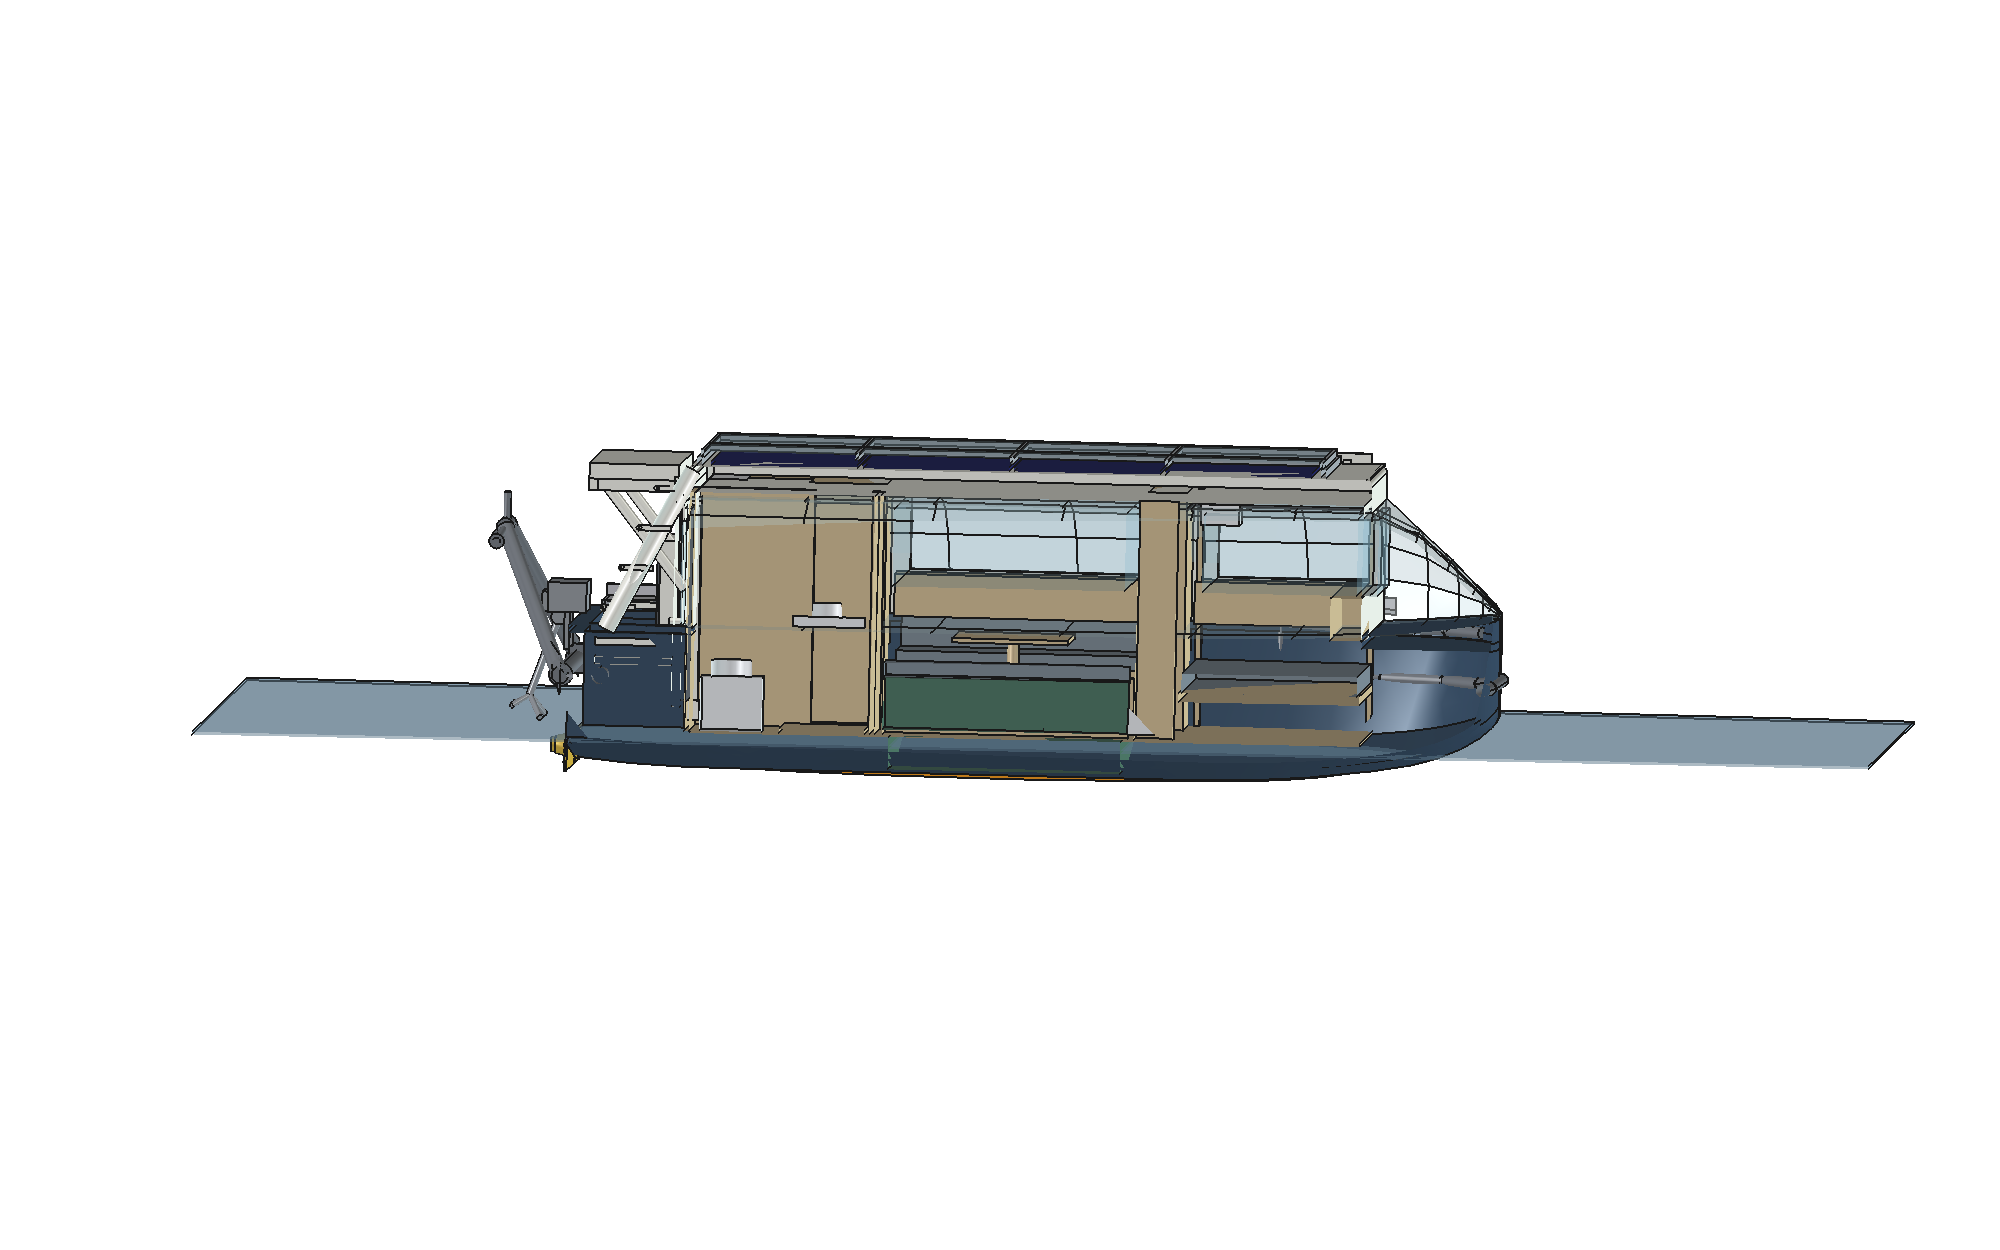
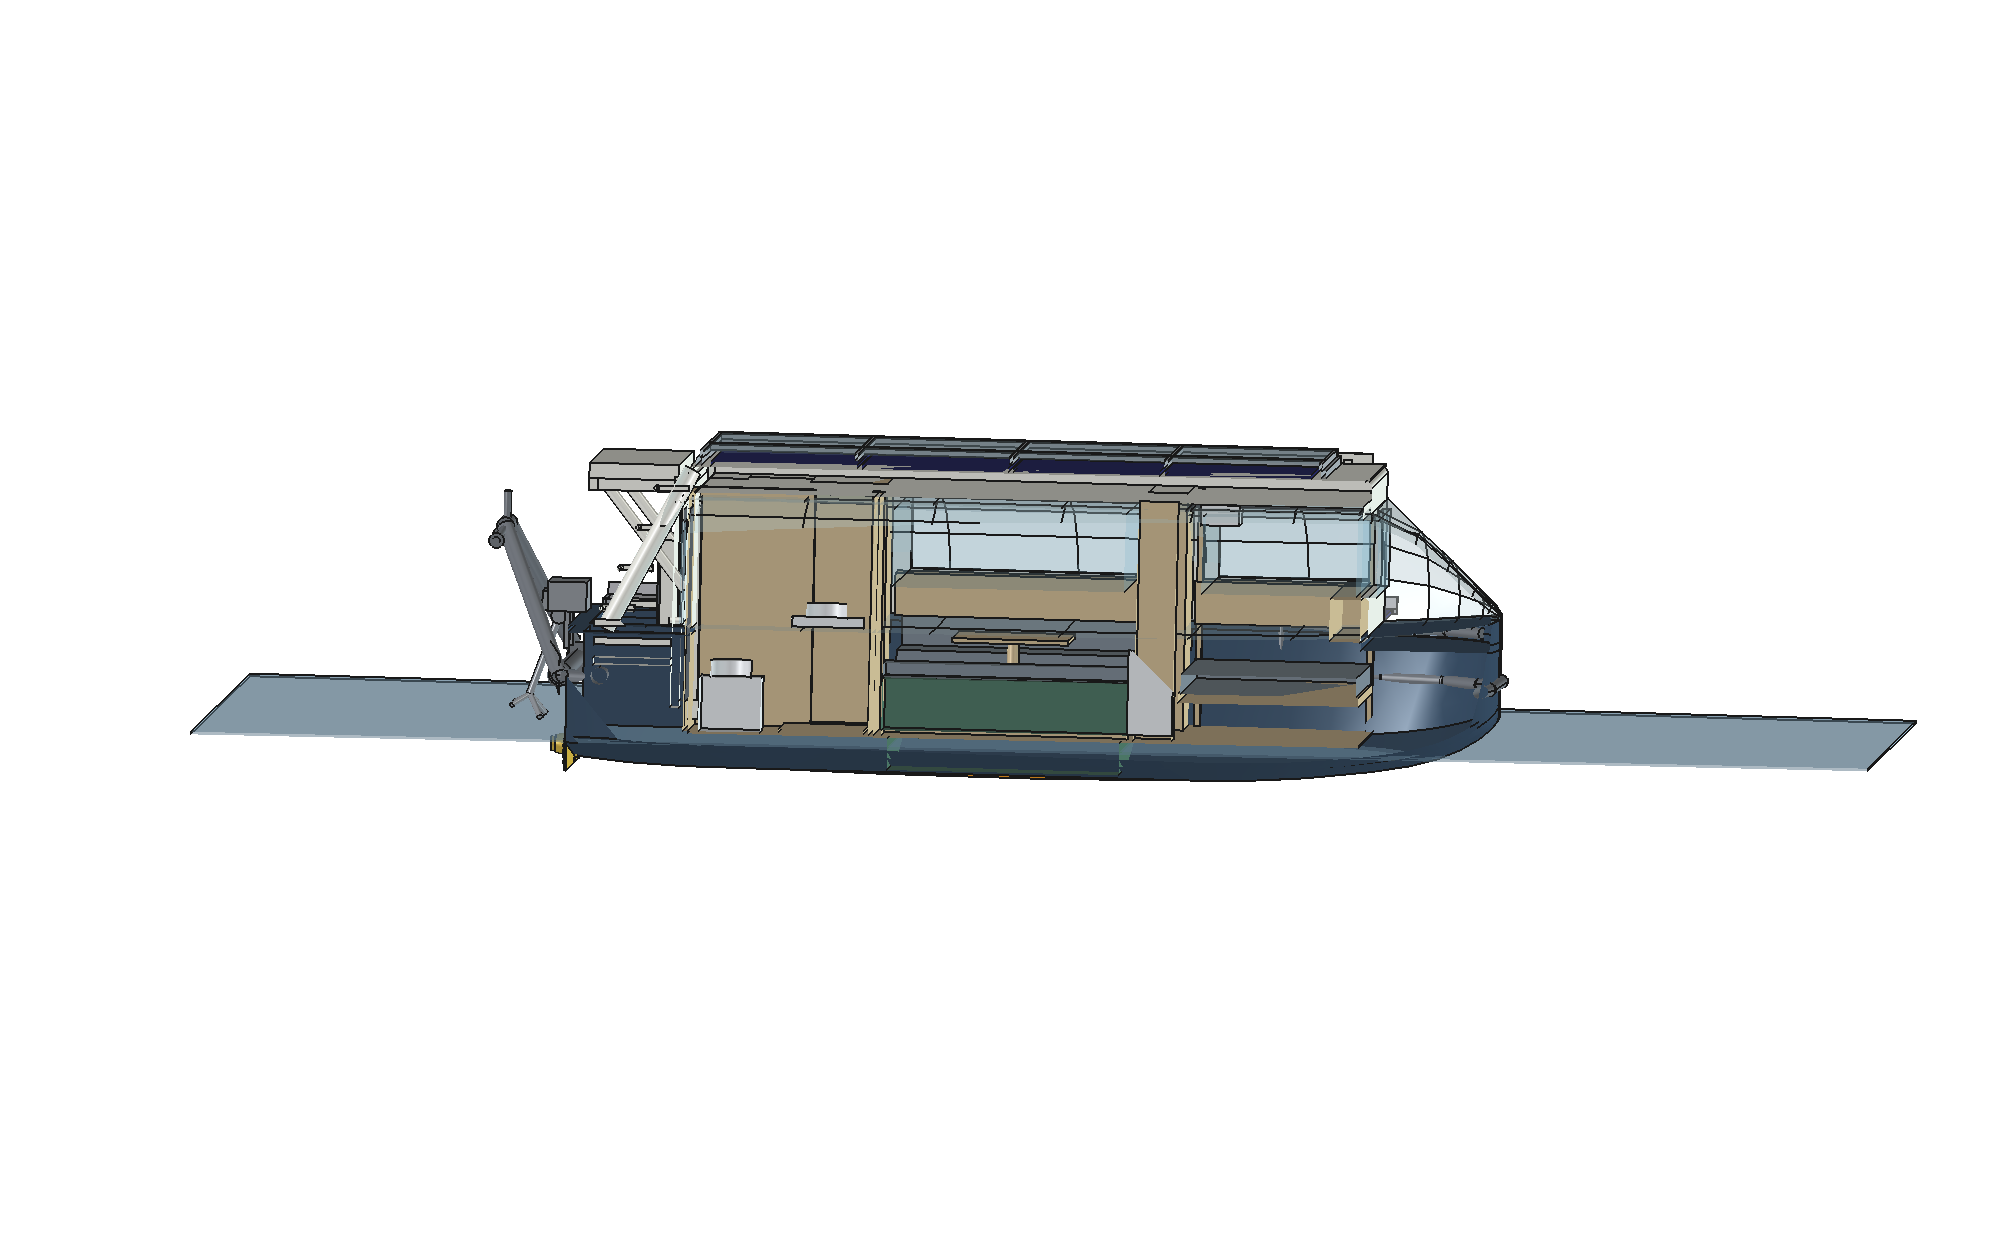
Real datasheet dimensions; 400 W bifacial on the balconies
Checked actual module datasheets instead of estimating. My 500 W figure
was optimistic: real ones are 1961 x 1134 x 30 at 26-27 kg (Trina Vertex
N, JA Solar JAM60D41), not 1934 x 24 kg. A 400 W is the 54-cell format,
1722 x 1134 x 30, ~21 kg.

Those 239 mm decide the balcony: three 400 W fit the 5300 mm run
(3 x 1722 + gaps = 5246) where only two 500 W would go, so the smaller
panel gives MORE power per side - 1.2 kW against 1.0.

Balconies now carry 400 W BIFACIAL modules per Max. The rear face earns
its keep there: folded up over the windows in road and harbour trim
both faces see daylight, and deployed over the water the back picks up
surface reflection - reckoned at +5%.

Roof keeps the 500 W panel: there the constraint is the 2100 mm field
width, which a 1961 module lies across happily.

System 4.40 kWp nominal, 4.35 effective, up from 4.00/3.83. Panel mass
234 kg. Every module position verified inside its field before render.

diff --git a/freecad/params.py b/freecad/params.py
@@ -51,12 +51,24 @@ WINDOWS = [(2500, 1800), (4900, 1200)]      # (x0, length)
 WIN_PIER = 600                     # solid pillar between the two openings
 PORTHOLE = (1500, 1780, 360)       # service zone: light + ventilation
 
-# THE standard panel used everywhere on the boat: a common 2026-format
-# 500 W framed module, 1934 x 1134 x 30, ~24 kg. Standardised and cheap,
-# so it can be replaced at any solar shop for the life of the boat.
-MODULE_500 = (1934, 1134, 30)      # long side, short side, thickness
+# Real catalogue modules (datasheets checked, not estimated):
+#   ROOF  — 500 W mono, Trina Vertex N class: 1961 x 1134 x 30, 27 kg.
+#           Its 1961 long side fits the 2100 mm field width lying
+#           athwartships, so four cover the roof.
+#   SIDES — 400 W BIFACIAL (Max), Photonic Universe / Longi class:
+#           1722 x 1134 x 30, 21 kg. 239 mm shorter than the 500 W, and
+#           that is exactly what lets THREE fit each balcony instead of
+#           two. Bifacial earns its keep here: folded up over the
+#           windows in road and harbour trim both faces see daylight,
+#           and deployed over the water the back face picks up the
+#           surface reflection.
+MODULE_500 = (1961, 1134, 30)      # long side, short side, thickness
 MODULE_500_W = 500
-MODULE_500_KG = 24
+MODULE_500_KG = 27
+MODULE_BIFACIAL = (1722, 1134, 30)
+MODULE_BIFACIAL_W = 400
+MODULE_BIFACIAL_KG = 21
+BIFACIAL_GAIN = 1.05               # rear-face yield, deployed over water
 
 # legacy flexible-laminate footprint, still used for the float strips
 PANEL_L = 1700
@@ -157,14 +169,15 @@ BALC_T = 40                    # ladder-frame depth; modules drop INTO it
 # so the assembly may be at most 75 mm thick before the 2550 mm road
 # limit bites — which is why the modules still drop INTO the ladder
 # frame rather than onto it.
-MODULE_STD = MODULE_500        # same standard 500 W panel as the roof
-MODULE_W_PEAK_STD = MODULE_500_W
-MODULE_KG = MODULE_500_KG
+MODULE_STD = MODULE_BIFACIAL   # 400 W bifacial: three fit each side
+MODULE_W_PEAK_STD = MODULE_BIFACIAL_W
+MODULE_KG = MODULE_BIFACIAL_KG
 BALC_WALK_W = 0                # no side walkway any more
 BALC_PANEL_W = 1160            # the full span carries the module
 BALC_TREAD_T = 3               # tread remains on the aft passage only
-BALC_MODULE_X0 = 950
-BALC_MODULES = 2               # per side: 2 x 1934 fits the 5300 deck
+BALC_MODULE_X0 = 920
+BALC_MODULES = 3               # per side: 3 x 1722 + gaps = 5246
+BALC_MODULE_GAP = 40
 BALC_FRAME_RAIL = (25, 40, 3)  # alu box: b, h, wall
 BALC_FRAME_PITCH = 740         # cross rails: module ends + mid support
 BALC_FOLDED_T = BALC_T + 8     # frame depth + module lip + tread proud
@@ -408,7 +421,8 @@ def solar_kwp():
     deck = DECK_PANELS * PANEL_W_PEAK / 1000
     balc = 2 * BALC_MODULES * MODULE_W_PEAK_STD / 1000
     _, _, _, shade = deck_areas()
-    eff = deck * GLASS_TRANSMISSION * (1 - shade) * COOLING_GAIN + balc
+    eff = deck * GLASS_TRANSMISSION * (1 - shade) * COOLING_GAIN + \
+        balc * BIFACIAL_GAIN
     return deck, balc, eff
 
 
@@ -655,7 +669,8 @@ def checks(verbose=True):
         "walkway + panel strip wider than the balcony"
     assert BALC_MODULE_X0 >= PASSAGE_X - 50, \
         "balcony modules must start at the wide deck, not in the passage"
-    assert BALC_MODULE_X0 + BALC_MODULES * (ml + 60) <= BALC_X1, \
+    assert BALC_MODULE_X0 + BALC_MODULES * ml + \
+        (BALC_MODULES - 1) * BALC_MODULE_GAP <= BALC_X1, \
         f"{BALC_MODULES} modules do not fit the deck length"
     # tow arch: coupling height on the road, protection reach at sea
     cpl_x, cpl_z = arch_coupling()

diff --git a/freecad/build_boat.py b/freecad/build_boat.py
@@ -500,7 +500,7 @@ def build_balcony(fold_deg):
     # ---- standard 500 W modules, recessed into the full deck width
     gy = (P.BALC_SPAN - mw) / 2
     for i in range(P.BALC_MODULES):
-        px = P.BALC_MODULE_X0 + i * (ml + 60)
+        px = P.BALC_MODULE_X0 + i * (ml + P.BALC_MODULE_GAP)
         panels.append(posed(box(ml, mw, mt, (px, gy, d - mt))))
         for edge in (gy, gy + mw - 35):            # alu module frame
             panels.append(posed(box(ml, 35, mt + 4, (px, edge, d - mt - 2))))

diff --git a/docs/roof.md b/docs/roof.md
@@ -111,20 +111,20 @@ a dropped anchor are all inside the envelope.
 | removed | kg | added | kg |
 |---|---|---|---|
 | canopy slab + frame | 145 | glass, 10.1 m² × 30 kg/m² | 302 |
-| | | 4 × 500 W framed modules | 96 |
+| | | 4 × 500 W framed modules | 108 |
 | scissors (4 units) | 88 | alu grid + kerb | 35 |
 | drives + controller | 36 | seals, adhesive, fixings | 15 |
 | latches, gaskets, coaming | 12 | | |
 | solar side walls | 60 | | |
-| **total** | **341** | **total** | **448** |
+| **total** | **341** | **total** | **460** |
 
 **Net ≈ +107 kg**, of which 96 is the choice of standard framed modules
 over bonded laminates. Not a weight saving — mass bought as fixed
 structure and replaceable parts instead of mechanism.
 
-Solar: **4.00 kWp nominal** — roof 4 × 500 W = 2.00, balconies
-4 × 500 W = 2.00. After glass transmission (91 %), frame shading
-(4.4 %) and the ventilation gain (+5 %), **≈ 3.83 kWp effective**.
+Solar: **4.40 kWp nominal** — roof 4 × 500 W = 2.00, balconies
+6 × 400 W bifacial = 2.40. After glass transmission (91 %), frame shading
+(4.4 %) and the ventilation gain (+5 %), **≈ 4.35 kWp effective** (the bifacial rear gain roughly cancels the glass and frame losses).
 
 Two limits worth stating plainly:
 
@@ -136,8 +136,22 @@ Two limits worth stating plainly:
 
 ## 6. The solar balconies — full-width standard panels
 
-The balconies carry the **same standard 500 W modules as the roof**:
-1 934 × 1 134, recessed into an aluminium ladder frame, **2 per side**.
+The balconies carry **400 W BIFACIAL modules**, 1 722 × 1 134,
+recessed into an aluminium ladder frame, **3 per side**.
+
+Two datasheet facts decided this. A 400 W panel is the 54-cell format
+at **1 722 × 1 134 × 30, ~21 kg**; a 500 W is **1 961 × 1 134 × 30,
+~27 kg**. Those 239 mm are exactly what lets **three** fit the 5 300 mm
+balcony run (3 × 1 722 + gaps = 5 246) where only two 500 W would go —
+so the smaller panel gives *more* power per side: 1.2 kW against 1.0.
+
+**Bifacial on the sides** (Max): the rear face earns its keep here in a
+way it never could on the roof. Folded up over the windows in road and
+harbour trim both faces see daylight, and deployed flat over the water
+the back face picks up the surface reflection — reckon +5 %.
+
+The roof keeps the 500 W panel, because there the constraint is the
+2 100 mm field width and a 1 961 mm module lies across it happily.
 
 Max's first requirement here was a side walkway, and the geometry gave
 a hard answer: a 500 W module is 1 134 mm wide, the balcony span is
@@ -159,10 +173,10 @@ cockpit and the aft passage already give access.
 | | |
 |---|---|
 | frame | aluminium box 25 × 40 × 3 ladder, cross rails at 740 |
-| modules | **2 standard 500 W panels per side**, recessed |
+| modules | **3 × 400 W bifacial per side**, 1 722 × 1 134, recessed |
 | walked on | the **540 mm aft passage only** — the panels are not a deck |
 | folded thickness | **48 mm** of the 75 available |
-| mass | ≈ 134 kg per side |
+| mass | ≈ 149 kg per side |
 
 The folded assembly is what the road limit sees, which is why the
 modules still drop **into** the frame rather than onto it.
@@ -180,7 +194,7 @@ modules still drop **into** the frame rather than onto it.
 
 | Balconies (both sides) | Est. |
 |---|---|
-| 4 × standard 500 W framed modules | 520 |
+| 6 × 400 W bifacial framed modules | 660 |
 | Alu ladder frames, hinges, brackets | 900 |
 | Anti-slip tread on the aft passages | 140 |
-| **Balcony total** | **≈ 1 560** |
+| **Balcony total** | **≈ 1 700** |

diff --git a/README.md b/README.md
@@ -19,7 +19,7 @@ hydrostatic constraint is asserted in code.
 | Wheels | 6 × 205/70 R15 all-terrain, in-float hydraulic drive |
 | Floats | 6.2 m, ~1.55 t reserve each (82 %), righting SF ≈ 4.5 |
 | Water beam | 4.72 m (trimaran), floats fold flush under hull on road |
-| Solar | 8 × standard 500 W framed modules — 4 on the roof under walk-on glass, 4 on the balconies — 4.00 kWp nominal / ~3.8 effective |
+| Solar | 4 × 500 W under the walk-on glass + 6 × 400 W **bifacial** on the balconies — 4.40 kWp nominal / ~4.35 effective |
 | Structure | external steel frame (ladder loop) carries all arm/balcony/tow loads — nothing crosses the cabin |
 | Tow | stern-first; A-arch pin-locked: sea gantry / extensible drawbar, +100 kg tongue |
 | Stern gear | 2 t electric self-recovery winch + anchor on a transom roller |
